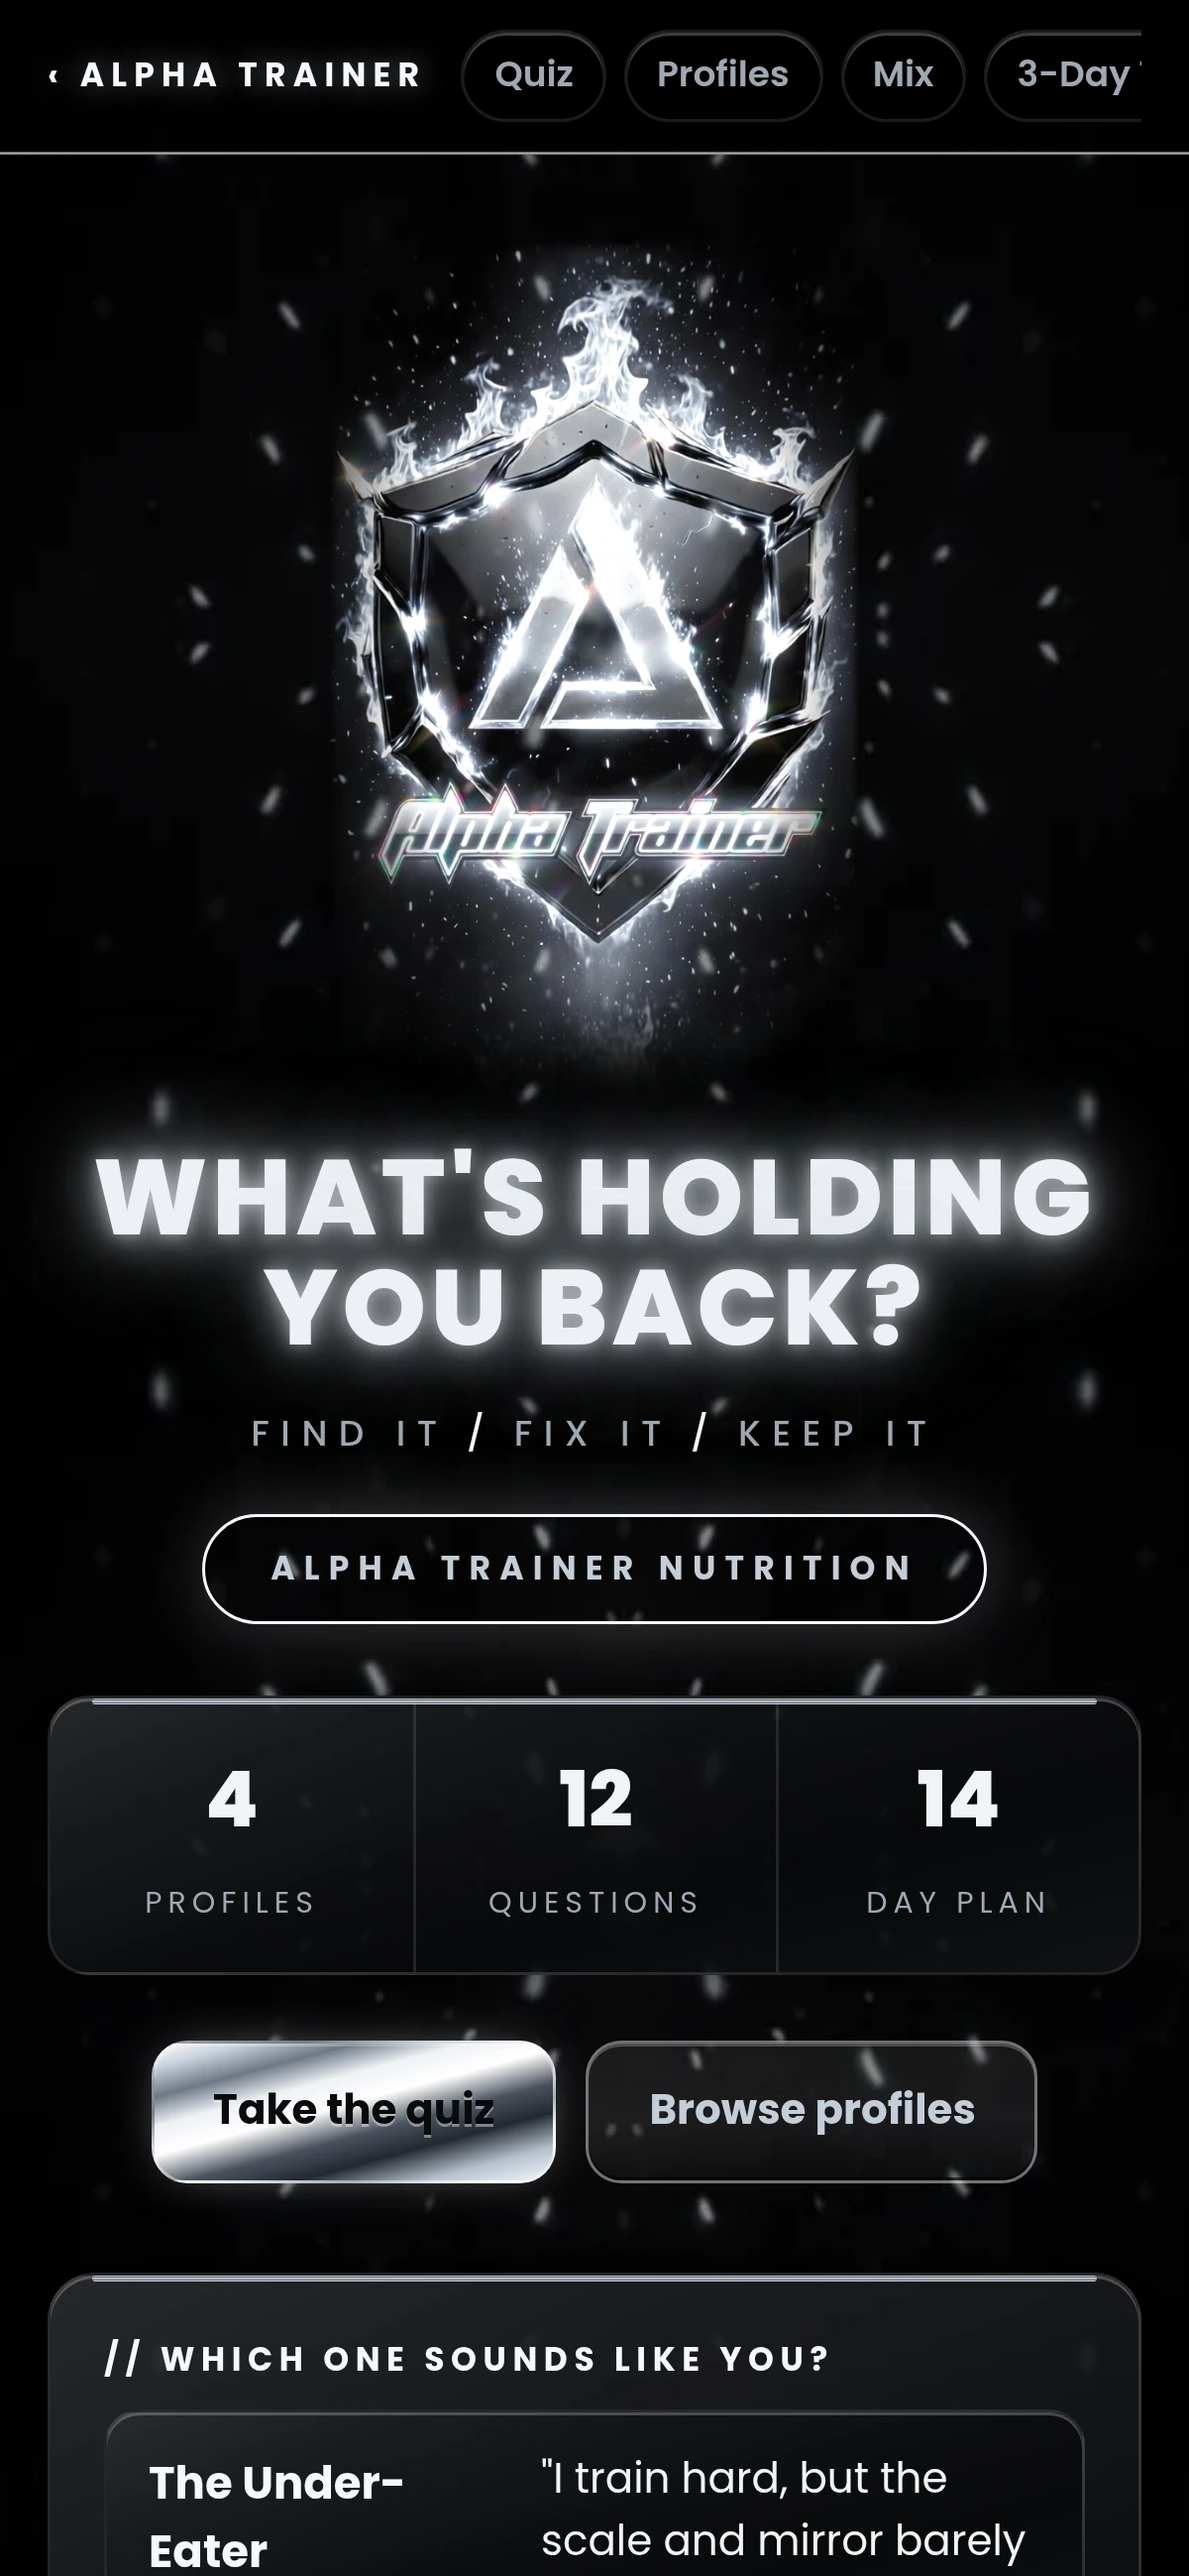
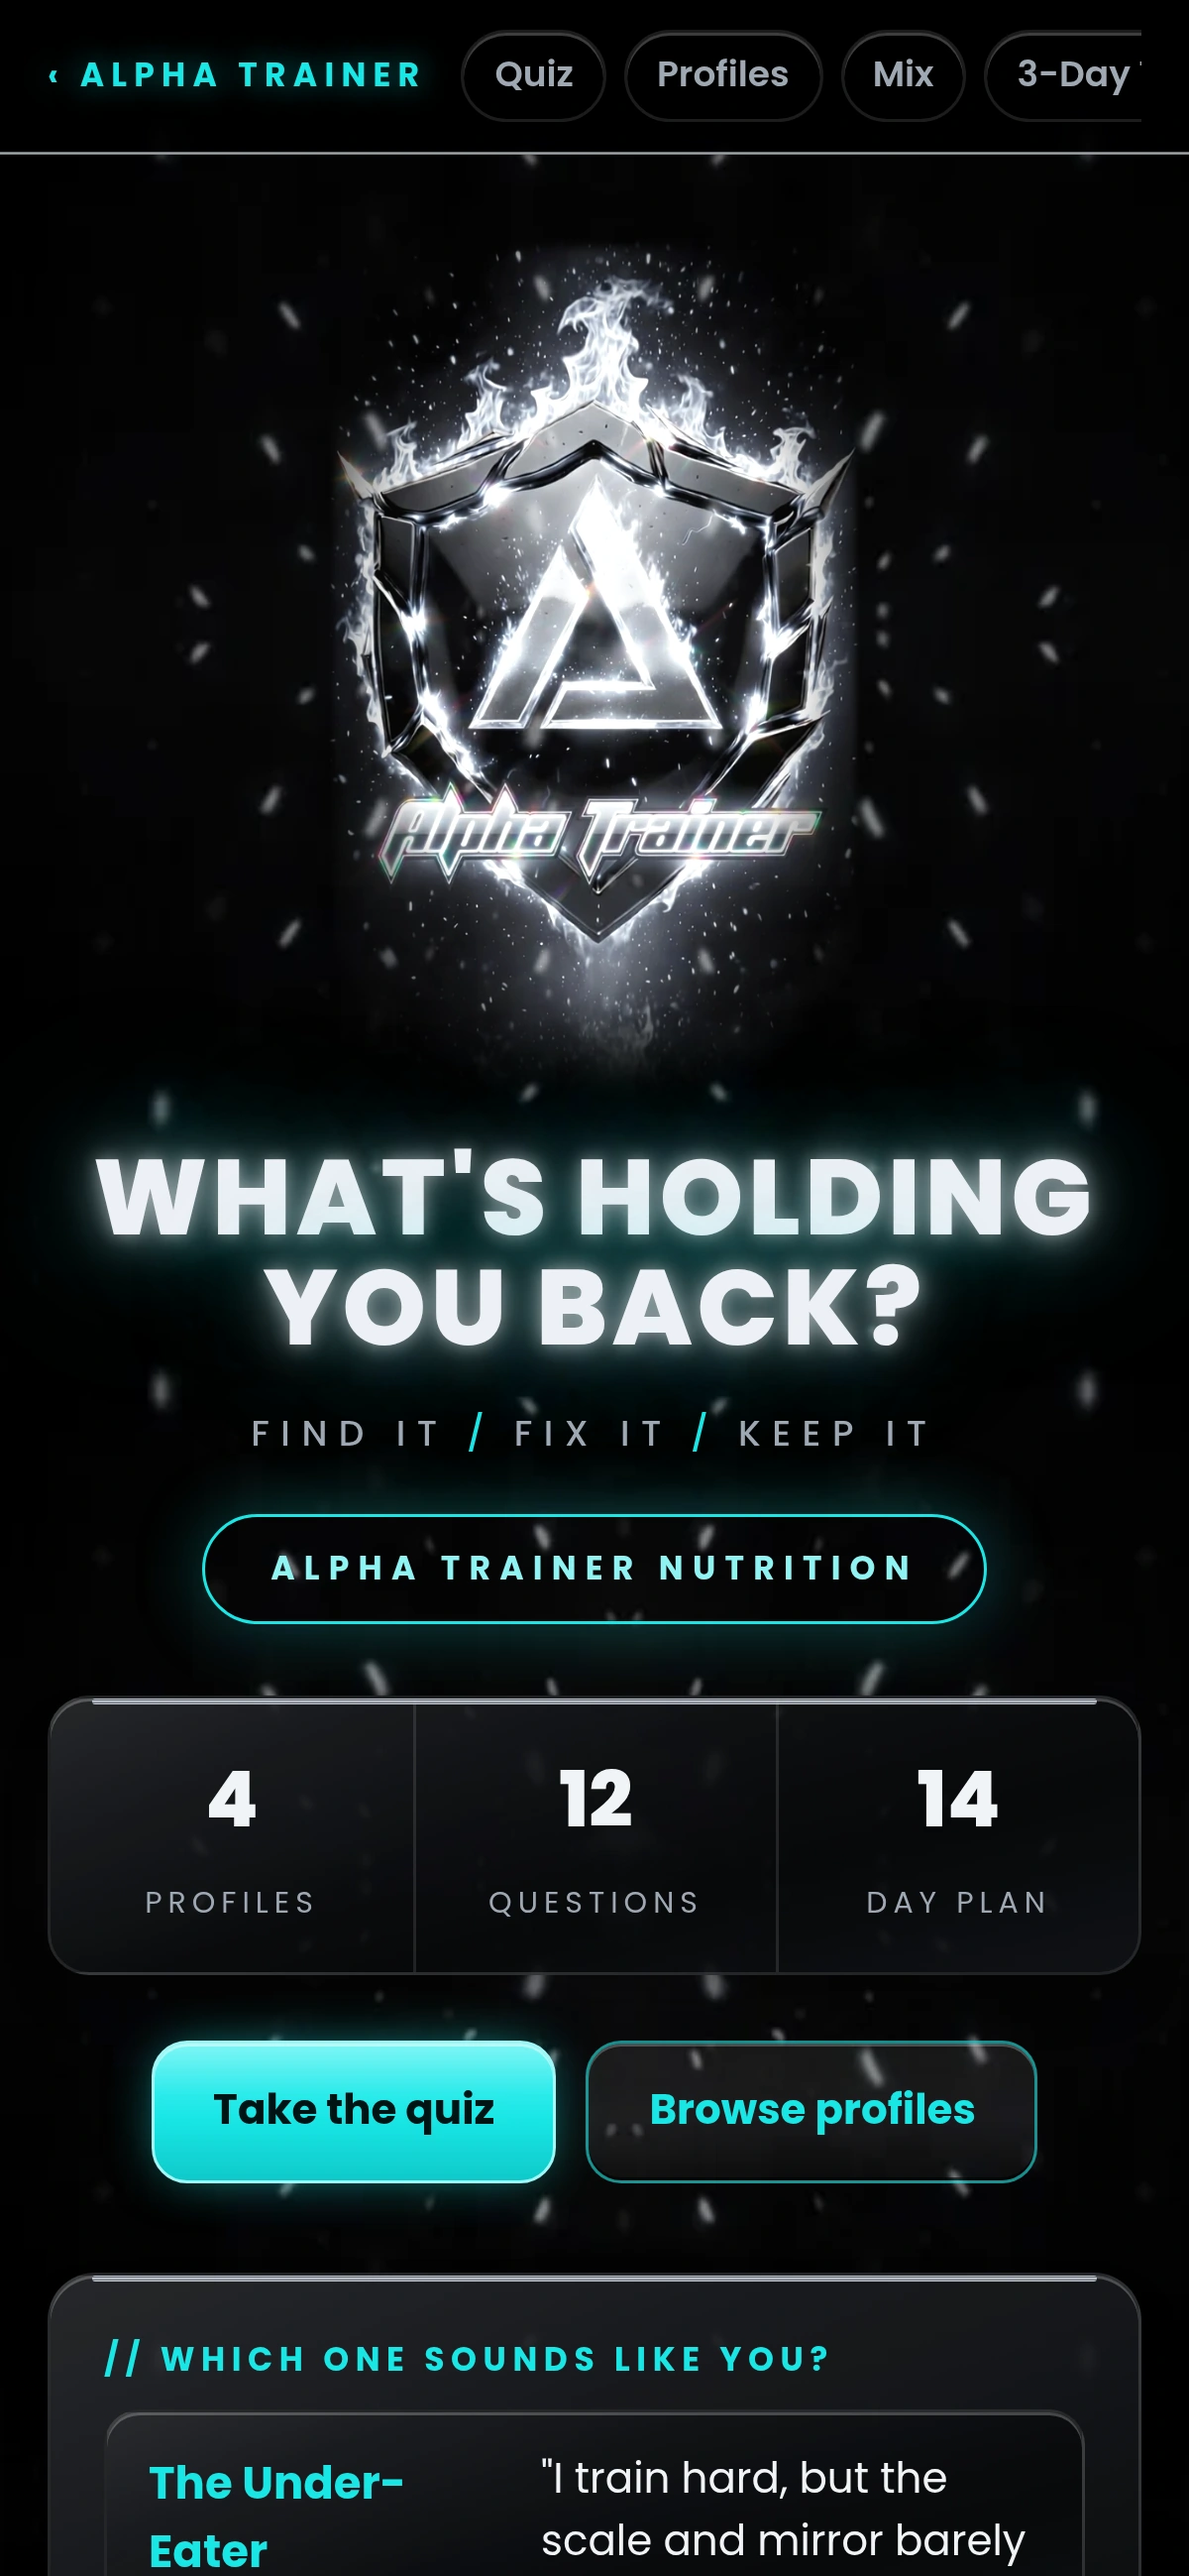
Quiz: turquoise/black/chrome restyle + refreshed homepage quiz previews

diff --git a/holding-you-back/index.html b/holding-you-back/index.html
@@ -11,8 +11,8 @@
 /* Black + chrome, matched to the Back Workout page. Layout: single phone-width column of numbered "stations"; sticky progress rail on top; quiz routes into a tabbed profile console. Single dark look, matching the printed guide. */
 :root{
   --void:#000000; --panel:#0D0F12; --panel2:#121418; --line:rgba(255,255,255,.11);
-  --violet:#F5F8FB; --violet-soft:#C4CDD8; --fg:#F1F4F7; --muted:#9FA8B4; --dim:#6B737E;
-  --ok:#5fe3a1; --warn:#ffb54d;
+  --violet:#19e6e6; --violet-soft:#8ff3f3; --fg:#F1F4F7; --muted:#9FA8B4; --dim:#6B737E;
+  --ok:#19e6e6; --warn:#19e6e6;
   --display:"Poppins",system-ui,-apple-system,"Segoe UI",sans-serif;
   --body:"Poppins",system-ui,-apple-system,"Segoe UI",sans-serif;
   --mono:"JetBrains Mono",ui-monospace,Menlo,monospace;
@@ -227,6 +227,27 @@ h2{background:linear-gradient(180deg,#ffffff 0%,#e3e6ea 40%,#8a929c 62%,#eef1f5 
 .tally .lead,.tally .lead b{color:#0A0B0D;text-shadow:0 1px 0 rgba(255,255,255,.45)}.tally .lead span{color:#1f2329;font-weight:700}
 </style>
 <style>[hidden]{display:none!important}img{max-width:100%}body{margin:0}</style>
+<style>
+/* Alpha Trainer turquoise accents over Steve's black + chrome base (no image filters/overlays) */
+:root{--tq:#19e6e6;--tqbtn:linear-gradient(180deg,#7ff6f6 0%,#2aeaea 38%,#19e6e6 55%,#0fc9c9 100%)}
+.btn,.tally .lead,.result .badge,.badge,.q h3 i,.opt[aria-pressed="true"]::before,.hunger button[aria-pressed="true"],.done-btn[aria-pressed="true"],.toast,.chk input:checked,.day.done .done-btn,.tab .you{background:var(--tqbtn);color:#001414}
+.btn{border-color:#9ff7f7;text-shadow:none;box-shadow:inset 0 1px 0 rgba(255,255,255,.45),0 0 18px -4px rgba(25,230,230,.65)}
+.btn:hover{filter:none;background:linear-gradient(180deg,#a6f9f9 0%,#45eeee 45%,#19e6e6 100%);box-shadow:inset 0 1px 0 rgba(255,255,255,.5),0 0 26px -2px rgba(25,230,230,.8)}
+.btn.ghost{background:linear-gradient(180deg,rgba(255,255,255,.07),rgba(210,218,230,.10) 55%,rgba(210,218,230,.04));color:var(--tq);border-color:rgba(25,230,230,.6);box-shadow:var(--hi),var(--lo)}
+.btn.ghost:hover{background:rgba(25,230,230,.12)}
+.qfill{background:var(--tqbtn);box-shadow:0 0 10px rgba(25,230,230,.7)}
+.opt[aria-pressed="true"]{background:rgba(25,230,230,.10);border-color:var(--tq)}
+.tab[aria-selected="true"]{background:rgba(25,230,230,.10);border-color:var(--tq)}
+.tally .lead{box-shadow:0 0 18px rgba(25,230,230,.35)}
+.result{border-color:rgba(25,230,230,.65);box-shadow:var(--hi),0 0 30px -8px rgba(25,230,230,.5)}
+.offer.main{border-color:rgba(25,230,230,.65);box-shadow:var(--hi),var(--lift),0 0 28px -8px rgba(25,230,230,.5)}
+.pill{box-shadow:0 0 24px rgba(25,230,230,.3)}
+.note{border-left-color:var(--tq)}
+.dots i.on{background:#C4CDD8}.dots i.on.hit{background:var(--tq);box-shadow:0 0 8px rgba(25,230,230,.7)}
+.verdict.hit{color:var(--tq);text-shadow:0 0 10px rgba(25,230,230,.6)}
+.bar-brand,.kicker .code{text-shadow:0 0 10px rgba(25,230,230,.55)}
+h1{text-shadow:0 0 6px rgba(255,255,255,.45),0 0 16px rgba(210,218,230,.6),0 0 38px rgba(25,230,230,.45),0 0 70px rgba(25,230,230,.25)}
+</style>
 </head>
 <body>
 

diff --git a/index.html b/index.html
@@ -82,7 +82,7 @@
 <h2><span class="chrome">What's Holding</span> <span class="glow">You Back?</span></h2>
 <p class="lead">12 questions. 4 profiles. A 14-day plan to fix it.</p>
 <div class="tracker-grid">
-<div class="phones" tabindex="0" aria-label="Nutrition quiz screens"><figure class="phone"><img src="assets/promo/q-hero.webp?v=1" alt="What's Holding You Back? quiz start screen" width="1200" height="2598" loading="lazy" decoding="async"></figure><figure class="phone"><img src="assets/promo/q-question.webp?v=1" alt="Quiz question screen" width="1200" height="2598" loading="lazy" decoding="async"></figure><figure class="phone"><img src="assets/promo/q-result.webp?v=1" alt="Quiz profile result: The Under-Eater" width="1200" height="2598" loading="lazy" decoding="async"></figure></div>
+<div class="phones" tabindex="0" aria-label="Nutrition quiz screens"><figure class="phone"><img src="assets/promo/q-hero.webp?v=2" alt="What's Holding You Back? quiz start screen" width="1200" height="2598" loading="lazy" decoding="async"></figure><figure class="phone"><img src="assets/promo/q-question.webp?v=2" alt="Quiz question screen" width="1200" height="2598" loading="lazy" decoding="async"></figure><figure class="phone"><img src="assets/promo/q-result.webp?v=2" alt="Quiz profile result: The Under-Eater" width="1200" height="2598" loading="lazy" decoding="async"></figure></div>
 <div class="tracker-data">
 <ul class="qfacts left"><li><b>12</b><span>Questions</span></li><li><b>4</b><span>Profiles</span></li><li><b>14</b><span>Day Plan</span></li></ul>
 <p class="note">Answer 12 quick questions, find your profile, run the 3-day test, then follow the 14-day plan and weekly check-in. Free, and your answers stay on your device.</p>
